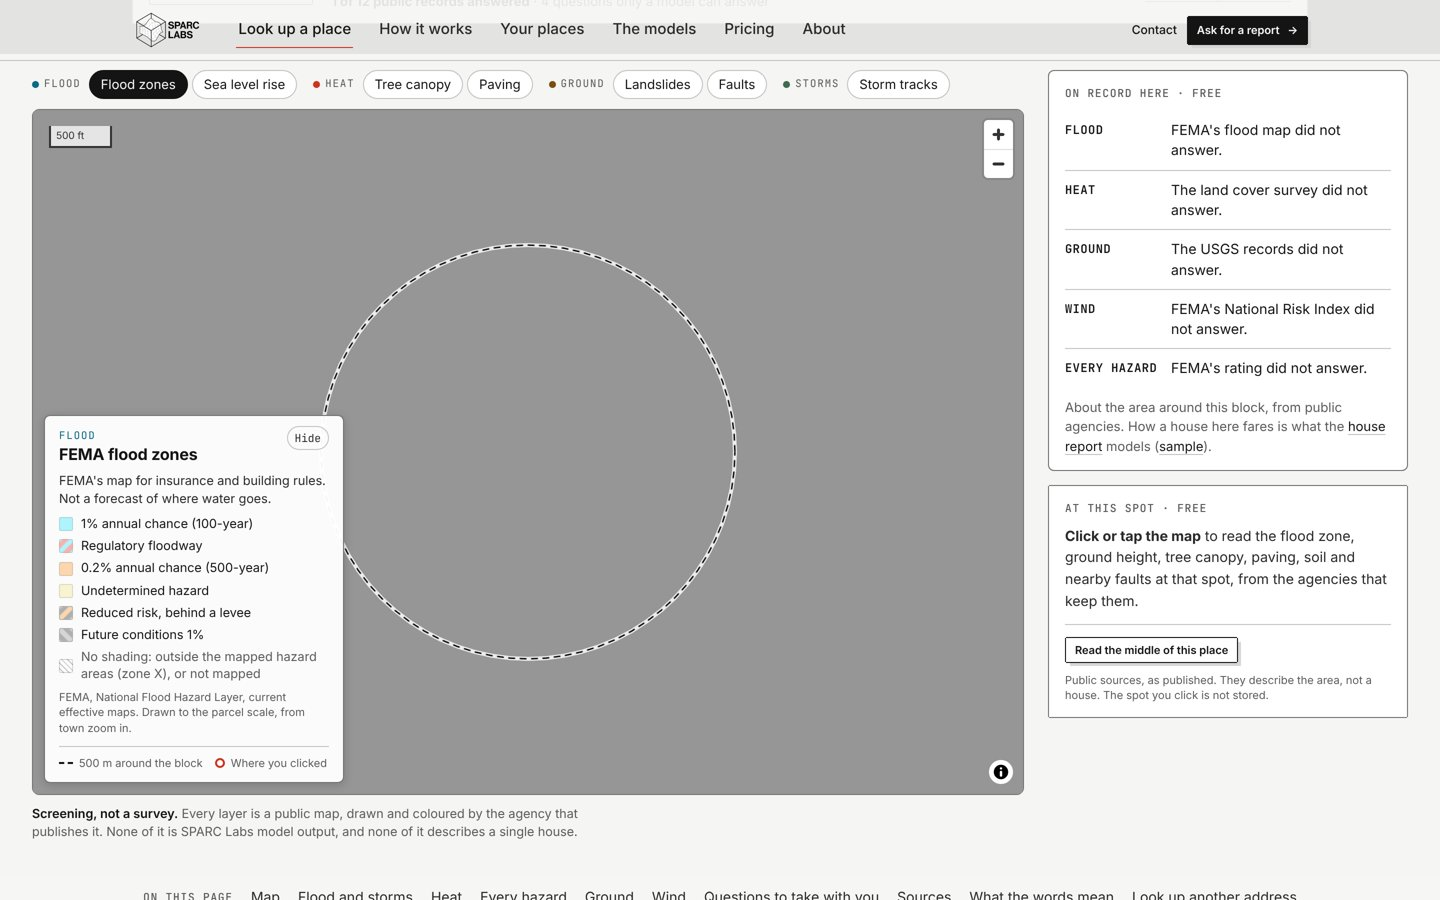
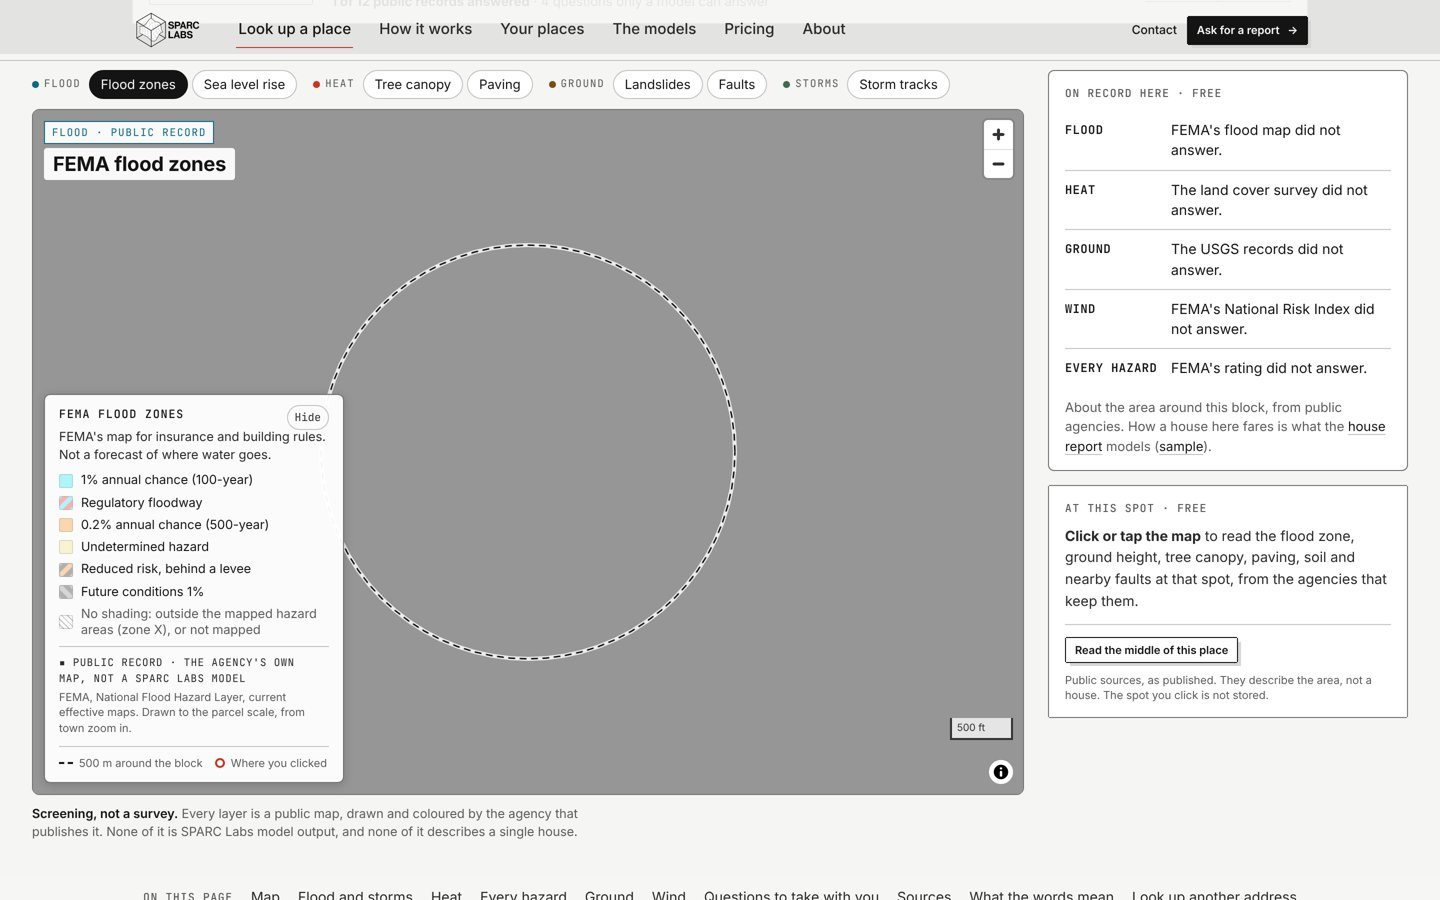
Place map: title and evidence line to match the report viewer
The paid report's viewer (deliverables/tools/viewer.html) titles its map top
left with a hazard kicker over the layer name, and its key states the kind
of evidence above the source. The free map now does the same, labelled as
public record rather than an evidence class, so free and paid read as one
family. The scale moves to the bottom right to make room.

Claude-Session: https://claude.ai/code/session_01LYT5Q9h2QNRqXGye3Pbx4A

Changed region(s): [[0.0312, 0.4356, 0.25, 0.7778], [0.0312, 0.1244, 0.1875, 0.2178], [0.6562, 0.7778, 0.7188, 0.84]]

diff --git a/src/styles/quiet.css b/src/styles/quiet.css
@@ -298,3 +298,26 @@
 @media (max-width: 1100px) {
   .place-side .spot-panel { order: -1; }
 }
+
+/* One family with the report viewer (deliverables/tools/viewer.html): the map
+   carries its title top left, a hazard kicker in a ruled box over the layer
+   name, and the key says what kind of evidence it is above its source. */
+.pm-title { position: absolute; top: 12px; left: 12px; z-index: 2; display: grid; gap: 4px; justify-items: start; pointer-events: none; max-width: calc(100% - 80px); }
+.pm-title-kicker {
+  font-family: var(--font-mono); font-size: 10.5px; letter-spacing: 0.1em; text-transform: uppercase;
+  padding: 3px 7px; background: rgba(255, 255, 255, 0.94); border: 1px solid currentColor; color: var(--ink-2);
+}
+.pm-title-kicker[data-hazard="flood"] { color: var(--flood); }
+.pm-title-kicker[data-hazard="heat"] { color: var(--heat); }
+.pm-title-kicker[data-hazard="ground"] { color: var(--ground); }
+.pm-title-kicker[data-hazard="storm"] { color: var(--wind); }
+.pm-title strong { font-size: 20px; line-height: 1.2; letter-spacing: -0.01em; padding: 4px 9px; background: rgba(255, 255, 255, 0.94); border-radius: 3px; }
+.pm-zoom-note { top: auto; bottom: 14px; left: auto; right: 14px; transform: none; }
+.pm-key .mk-hazard { display: none; }
+.pm-key .mk-legend-head strong { font-family: var(--font-mono); font-size: 11.5px; font-weight: 500; letter-spacing: 0.08em; text-transform: uppercase; padding-right: 56px; }
+.mk-evidence { margin: 0; padding-top: 8px; border-top: 1px solid var(--line); font-family: var(--font-mono); font-size: 10.5px; letter-spacing: 0.06em; text-transform: uppercase; color: var(--ink-2); }
+.mk-evidence + .mk-source { margin-top: -4px; }
+@media (max-width: 720px) {
+  .pm-title strong { font-size: 16px; }
+  .pm-zoom-note { bottom: 10px; right: 10px; }
+}

diff --git a/src/components/place/PlaceMap.tsx b/src/components/place/PlaceMap.tsx
@@ -490,7 +490,7 @@ export function PlaceMap({
         });
         mapRef.current = map;
         map.addControl(new maplibre.NavigationControl({ showCompass: false }), "top-right");
-        map.addControl(new maplibre.ScaleControl({ unit: "imperial" }), "top-left");
+        map.addControl(new maplibre.ScaleControl({ unit: "imperial" }), "bottom-right");
         map.on("zoomend", () => map && setZoom(map.getZoom()));
 
         const pinEl = document.createElement("div");
@@ -678,6 +678,17 @@ export function PlaceMap({
           />
           {failed && (
             <p className="place-map-failed">The map could not start in this browser. The records below do not depend on it.</p>
+          )}
+          {info && (
+            <div className="pm-title" aria-hidden>
+              <span className="pm-title-kicker" data-hazard={info.hazard}>
+                {HAZARD_WORDS[info.hazard]} · public record
+              </span>
+              <strong>
+                {info.title}
+                {info.key === "slr" ? `, ${slrFeet} ft higher` : ""}
+              </strong>
+            </div>
           )}
           {tooFar && <p className="pm-zoom-note">Zoom in to see {info?.title}</p>}
           {hover && (

diff --git a/src/components/map/MapLegend.tsx b/src/components/map/MapLegend.tsx
@@ -123,6 +123,9 @@ export function MapLegend({
         </ul>
       )}
 
+      <p className="mk-evidence">
+        <span aria-hidden>▪</span> Public record · the agency&apos;s own map, not a SPARC Labs model
+      </p>
       <p className="mk-source">
         {layer.publisher}, {layer.vintage}. {layer.grain[0].toUpperCase() + layer.grain.slice(1)}.
       </p>
